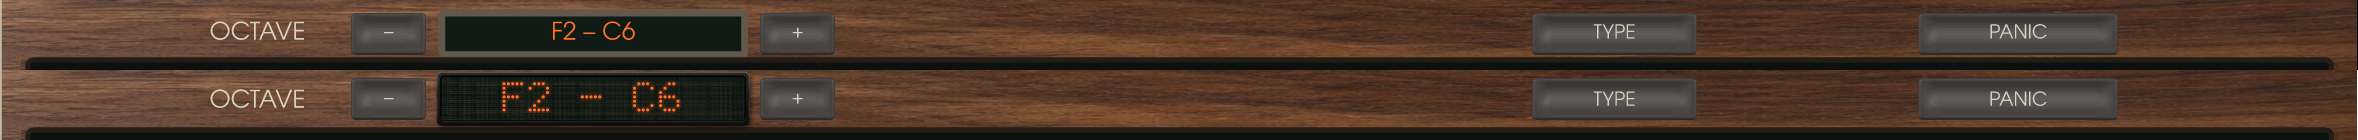
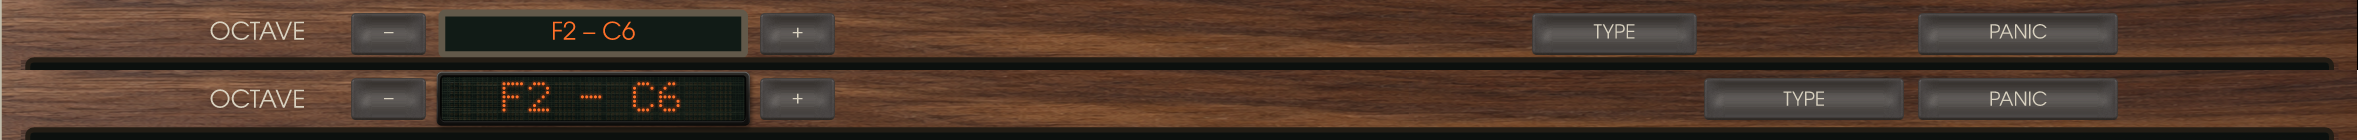
Group TYPE and PANIC with matching button sizes

Changed region(s): [[0.6501, 0.5429, 0.8049, 0.8571]]

diff --git a/crates/ca72-panel/src/keyboard.rs b/crates/ca72-panel/src/keyboard.rs
@@ -42,6 +42,13 @@ pub enum Target {
     Back,
 }
 
+const BUTTONS: [(f64, f64, &str, Target); 4] = [
+    (817.0, 86.0, "−", Target::Down),
+    (1287.0, 86.0, "+", Target::Up),
+    (2444.0, 230.0, "TYPE", Target::Type),
+    (2690.0, 230.0, "PANIC", Target::Panic),
+];
+
 #[derive(Clone, Debug, PartialEq)]
 pub struct Scene {
     pub root: u8,
@@ -165,12 +172,7 @@ pub fn hit(root: u8, x: f64, y: f64) -> Option<Target> {
     if !inside(x, y) {
         return None;
     }
-    for (cx, w, target) in [
-        (817.0, 86.0, Target::Down),
-        (1287.0, 86.0, Target::Up),
-        (2226.0, 190.0, Target::Type),
-        (2690.0, 230.0, Target::Panic),
-    ] {
+    for (cx, w, _, target) in BUTTONS {
         if (x - cx).abs() <= w / 2.0 && (y - HEADER).abs() <= BUTTON_H / 2.0 {
             return Some(target);
         }
@@ -495,12 +497,7 @@ fn drawing(scene: &Scene, fonts: &Fonts) -> String {
             "url(#keyface)"
         }
     );
-    for (x, w, label, target) in [
-        (817.0, 86.0, "−", Target::Down),
-        (1287.0, 86.0, "+", Target::Up),
-        (2226.0, 190.0, "TYPE", Target::Type),
-        (2690.0, 230.0, "PANIC", Target::Panic),
-    ] {
+    for (x, w, label, target) in BUTTONS {
         let on = target == Target::Type && scene.typing;
         let fill = if scene.skin == Skin::Worn && !on {
             "none"
@@ -665,12 +662,7 @@ impl Materials {
                 ),
             );
         }
-        for (x, w) in [
-            (817.0, 86.0),
-            (1287.0, 86.0),
-            (2226.0, 190.0),
-            (2690.0, 230.0),
-        ] {
+        for (x, w, _, _) in BUTTONS {
             let cap = plugin_kit_materials::widened(&self.button, w / BUTTON_H);
             plugin_kit_materials::sprite(frame, &cap, s, (x, HEADER - art::PANEL_H), (w, BUTTON_H));
         }

diff --git a/crates/ca72-plugin/src/editor.rs b/crates/ca72-plugin/src/editor.rs
@@ -3722,7 +3722,7 @@ mod tests {
             host.calls.lock().unwrap().is_empty(),
             "hidden controls cannot gesture"
         );
-        let p = at(&e, (2226.0, keyboard::HEADER));
+        let p = at(&e, (2444.0, keyboard::HEADER));
         go(&mut e, p);
         press(&mut e);
         release(&mut e);

diff --git a/docs/decisions.md b/docs/decisions.md
@@ -5491,3 +5491,7 @@ and bezel for the octave range. It now calls the shared bezel renderer and uses 
 asset, dot font, grid spacing and light colours. Its readout remains centred on the wood;
 the preset display keeps its existing appearance. Updated renderer previews and panel/lint
 checks pass; visual review still precedes full CI or merging.
+
+**Button follow-up, 2026-10-14.** The owner asked to place TYPE and PANIC side by side and
+give them the same size. TYPE now sits just left of PANIC, with both caps 230 × 48 units and
+a 16-unit gap. Header drawing, realistic materials and hit-testing share a single button layout.

diff --git a/docs/keyboard-feedback/README.md b/docs/keyboard-feedback/README.md
@@ -22,6 +22,9 @@ button materials and hit targets use the same header position. The TYPE mapping 
 that centre as well. The range reuses the preset display's bezel, glass asset, dot font, spacing
 and orange light. The preset display's appearance is unchanged.
 
+TYPE and PANIC sit side by side, with matching 230 × 48-unit caps and a 16-unit gap. Their
+drawing, materials and click targets share one layout; both labels retain their vertical centre.
+
 Preset display above, octave range below, from the same rendered frame:
 
 ![Matching preset and octave screens](preset-and-octave-screens.png)
